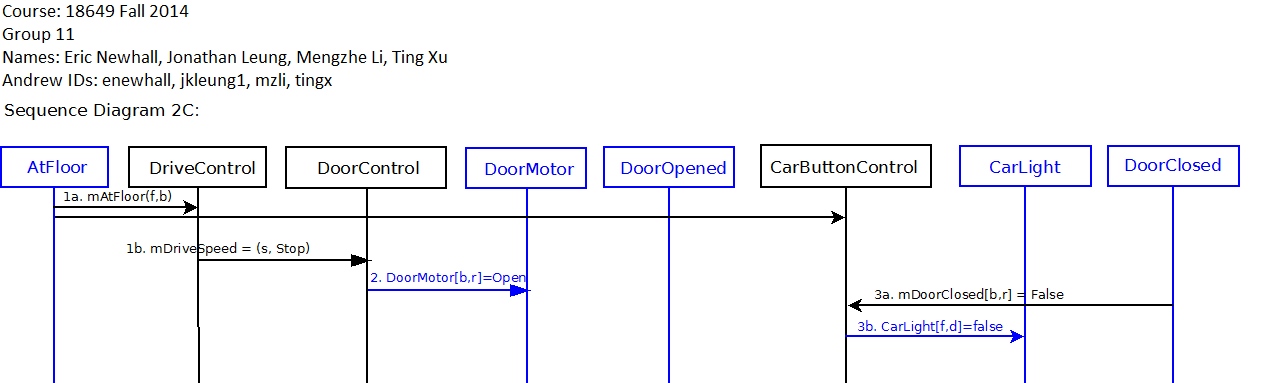
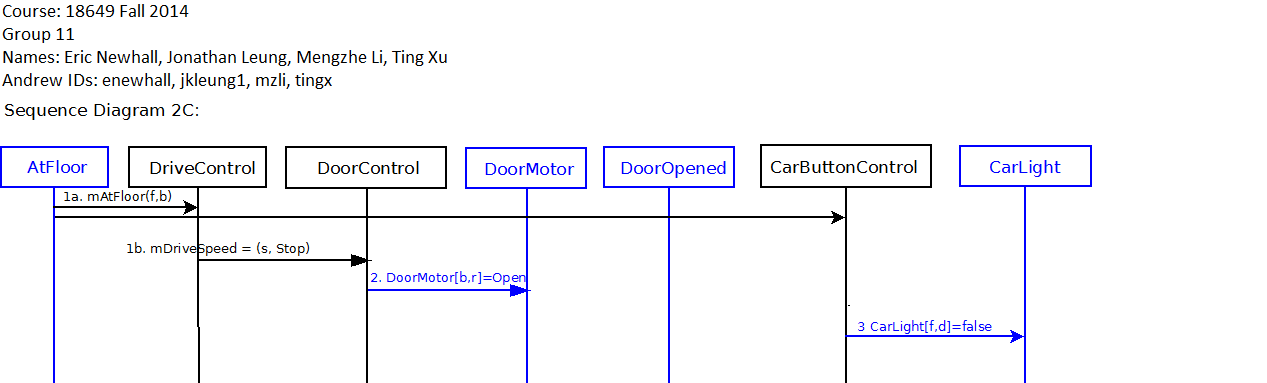
updated sd2c

Changed region(s): [[0.8619, 0.3734, 0.985, 0.4883], [0.6772, 0.7467, 0.9234, 0.8042], [0.6772, 0.8329, 0.8003, 0.8903]]

diff --git a/portfolio/scen_sd/scen_sd.html b/portfolio/scen_sd/scen_sd.html
@@ -239,7 +239,7 @@ the elevator arrives at the passenger's desired floor </h3>
 <ol start="1" type="1">
    <li>The elevator arrives at hallway[f,b]</li>
    <li>Door[b,r] begins to open</li>
-   <li>Door[b,r] completes opening</li>
+   <li>Car Light is turned off</li>
 </ol>
 <h3> Post-Conditions: </h3>
 <ul type="disc">
